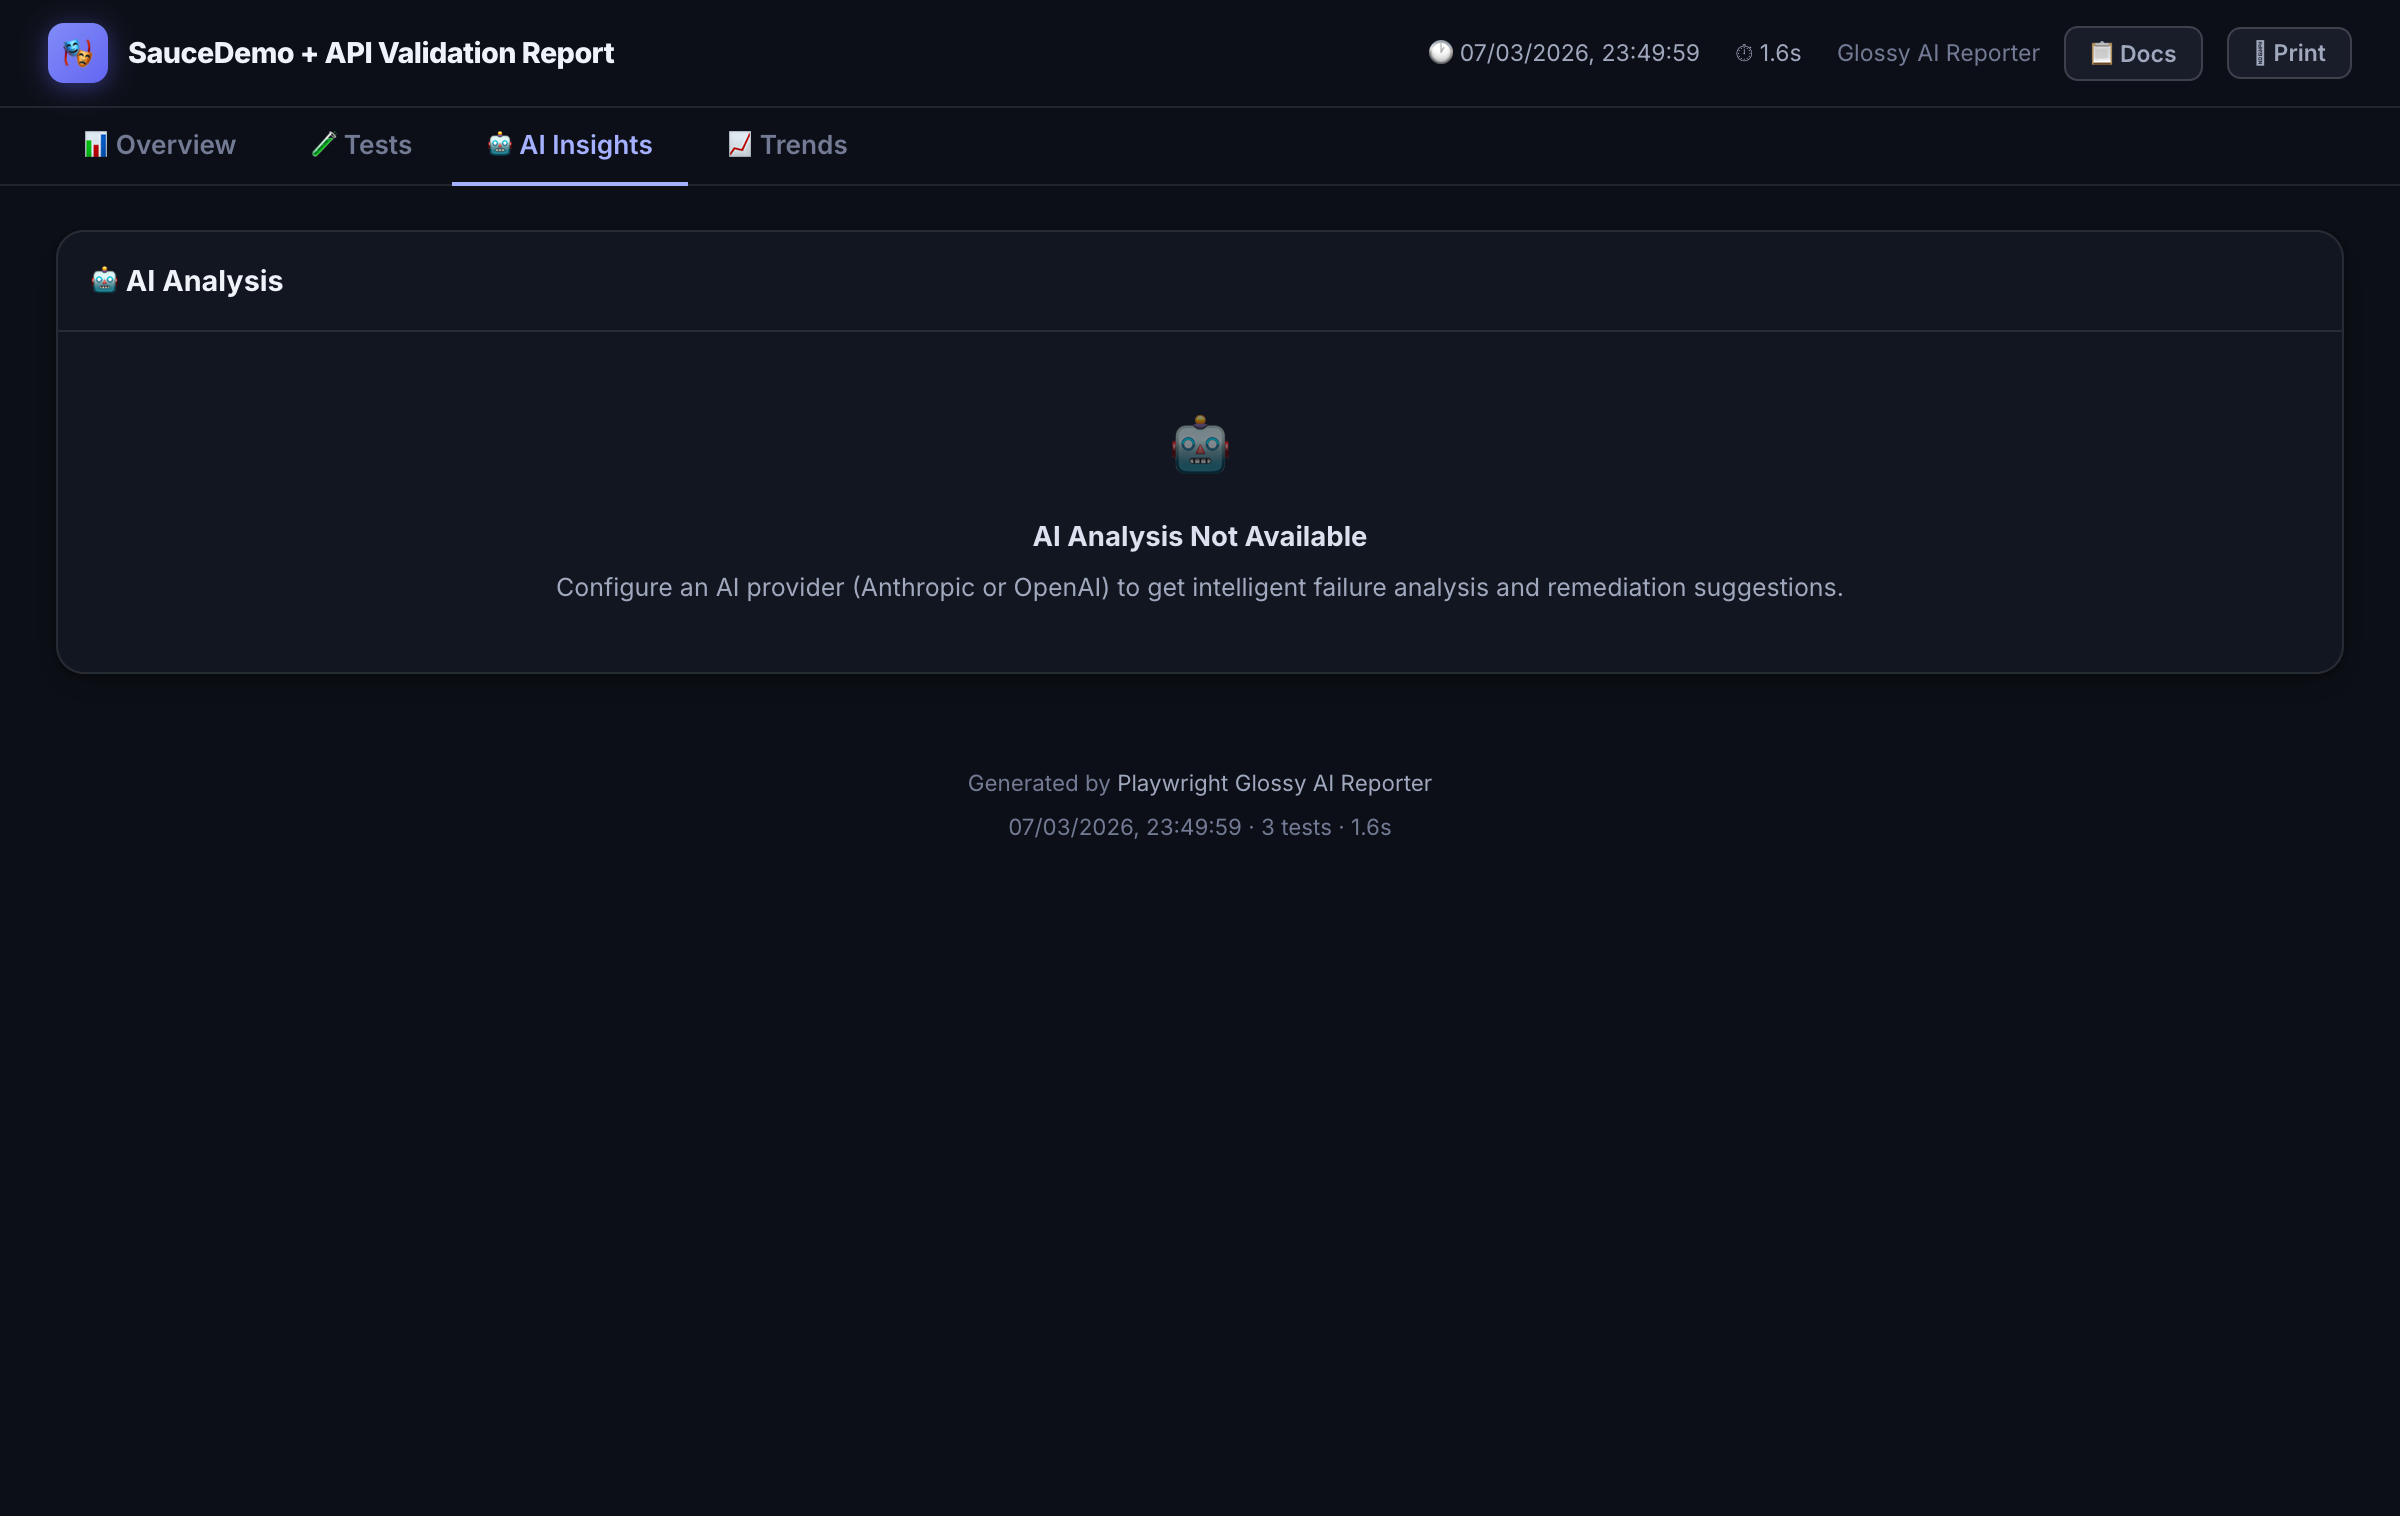
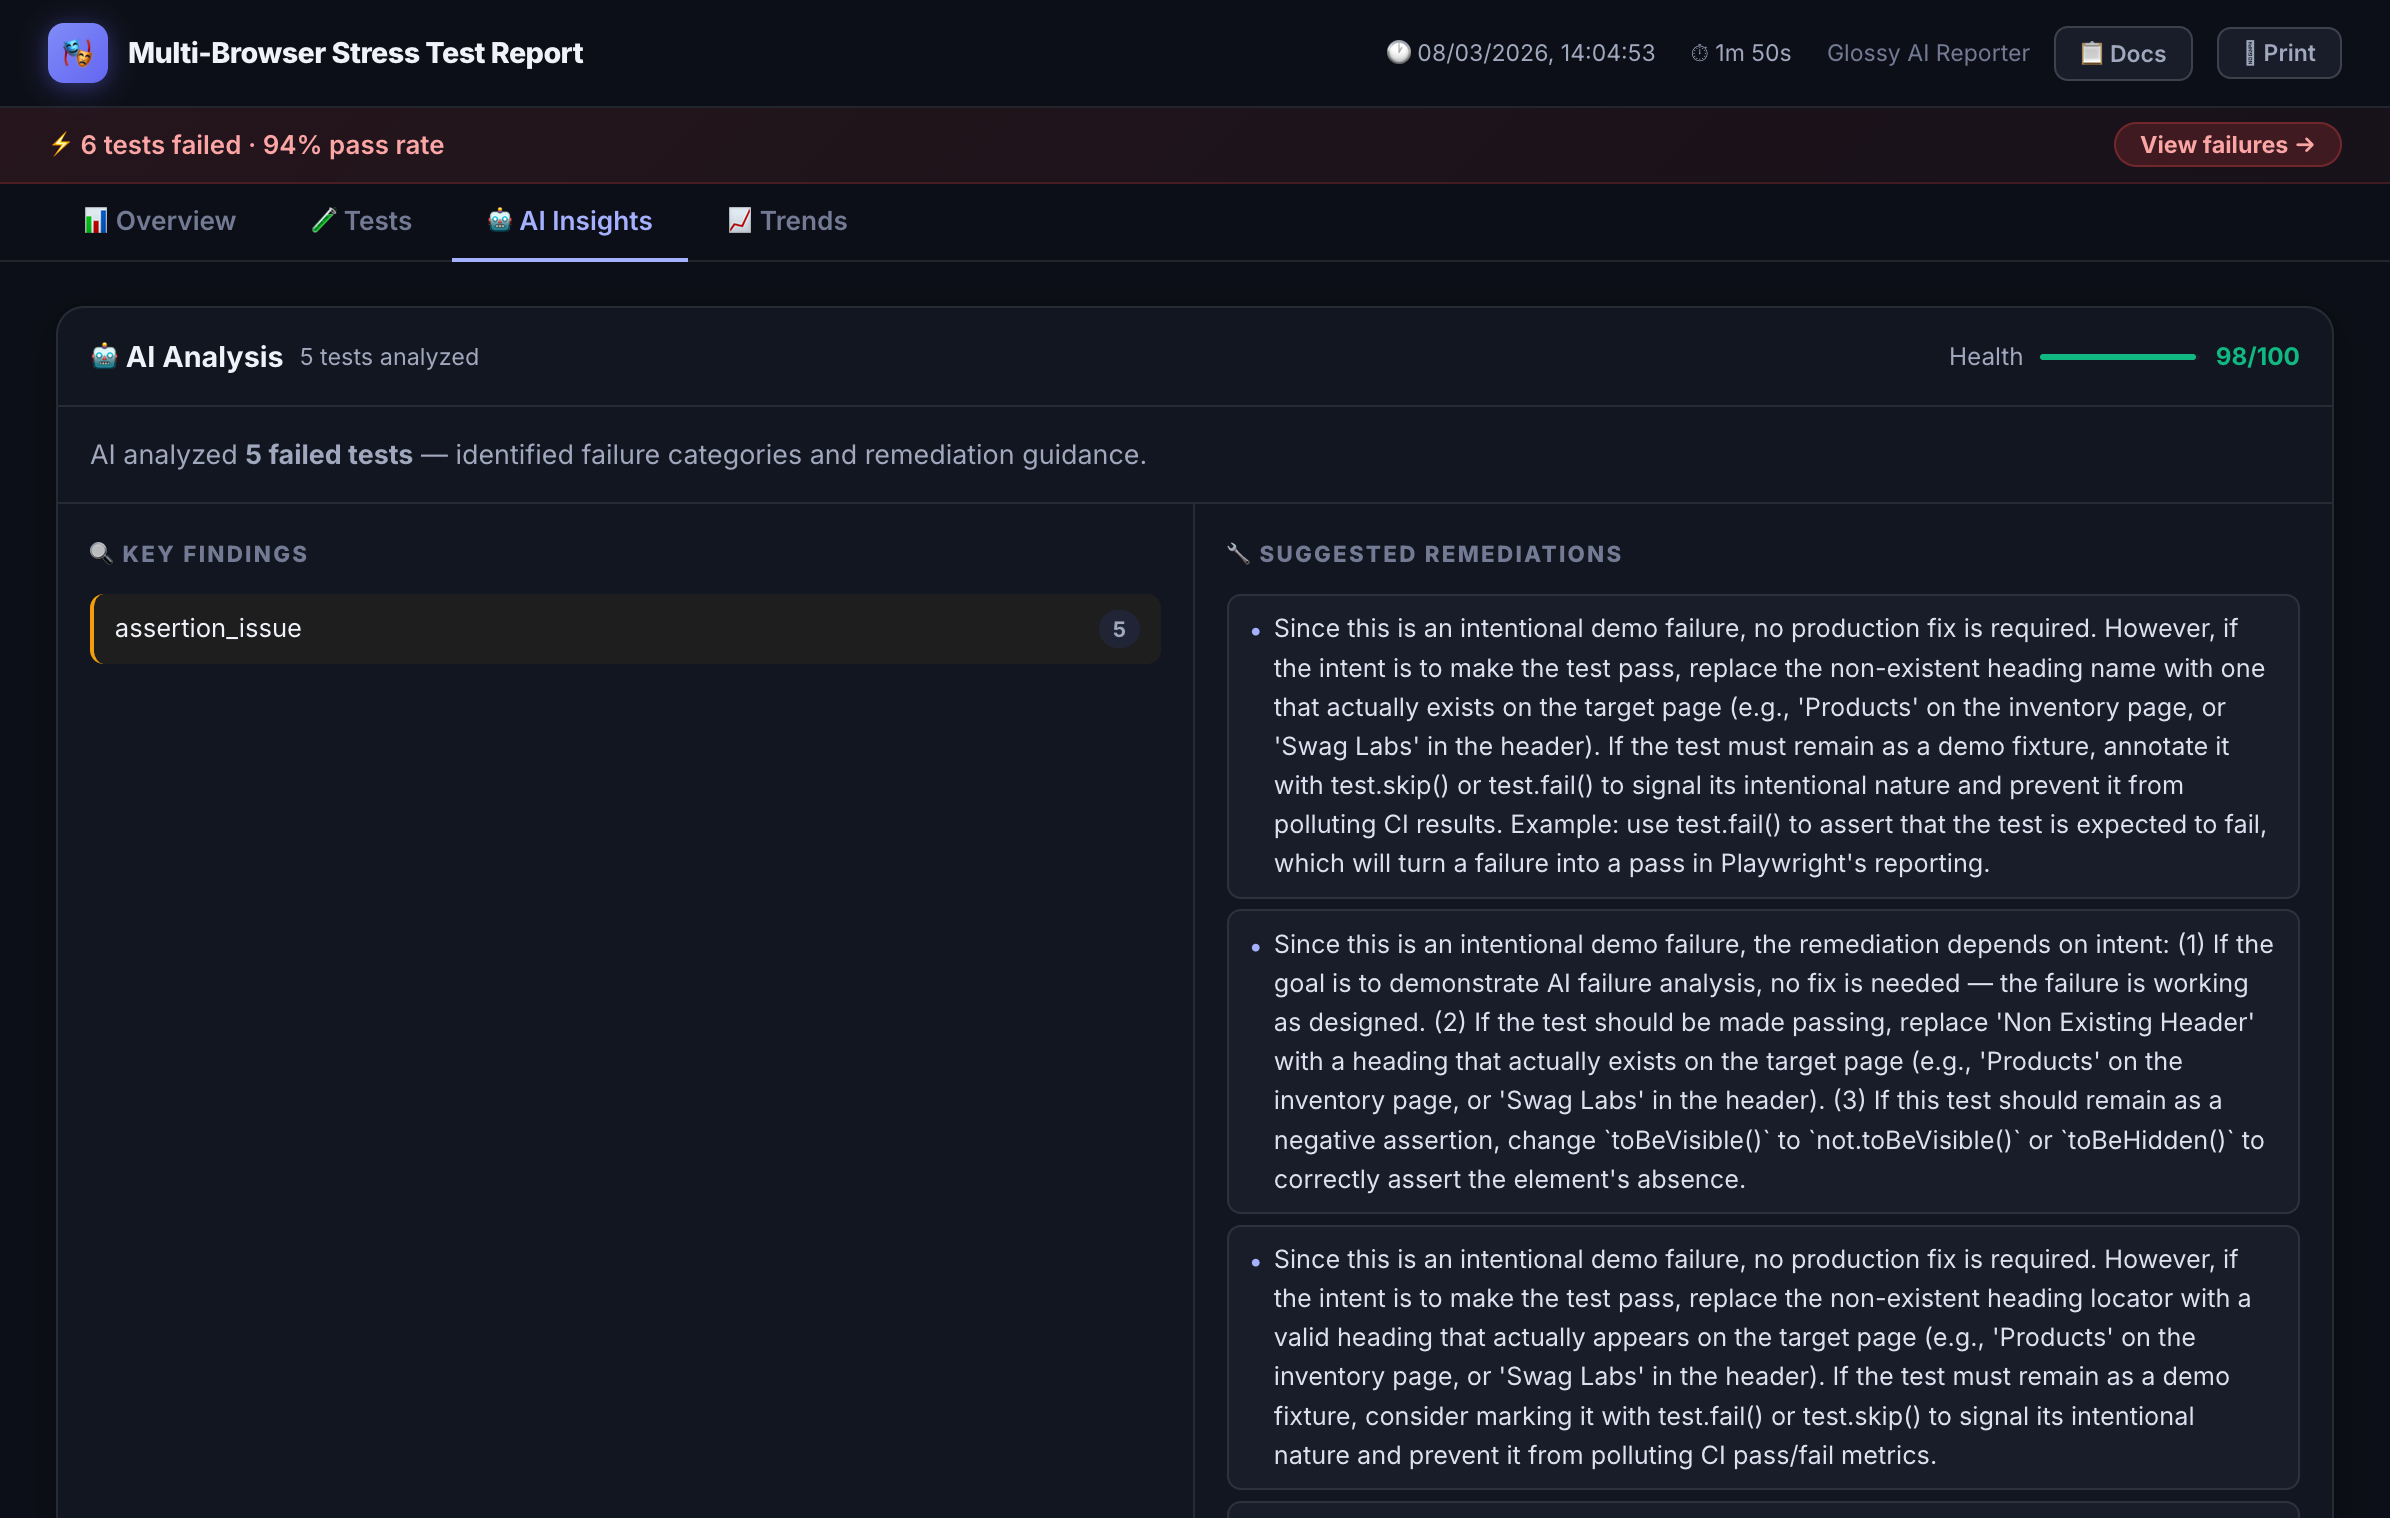
docs: update screenshots with real data and fix README references
- Replace empty AI insights screenshot with real analysis data (98% confidence, root cause, fix suggestions)
- Replace placeholder API viewer with actual request/response JSON viewer screenshot
- Add new failure-detail screenshot showing error + AI analysis inline
- Update tests-view screenshot showing browser badges (chromium/firefox/webkit)
- Fix screenshot section order and labels in README
- Fix remaining 'glossy' references: history file name, dashboard desc, SDK exports, type names

diff --git a/README.md b/README.md
@@ -9,28 +9,31 @@ A beautiful, production-ready Playwright reporter with BDD-style annotations, in
 ### Dashboard Overview
 ![Dashboard](docs/screenshots/dashboard.png)
 
-### BDD Feature & Scenario View
-![BDD View](docs/screenshots/api-viewer.png)
+### Tests & BDD View (with browser badges)
+![Tests View](docs/screenshots/tests-view.png)
 
 ### Inline API Request / Response Viewer
-![API Viewer](docs/screenshots/test-detail.png)
+![API Viewer](docs/screenshots/api-viewer.png)
+
+### Failure Detail with AI Analysis
+![Failure Detail](docs/screenshots/failure-detail.png)
+
+### AI Insights Tab
+![AI Insights](docs/screenshots/ai-insights.png)
 
 ### Run History & Trends
 ![Trends](docs/screenshots/trends.png)
-
-### AI Insights
-![AI Insights](docs/screenshots/ai-insights.png)
 
 ---
 
 ## Features
 
-- **Glossy HTML dashboard** — dark-themed interactive report with filter, sort, search, and failure drill-down
+- **Interactive HTML dashboard** — dark-themed report with filter, sort, search, and failure drill-down
 - **BDD annotations** — add Feature, Scenario, and Behaviour metadata directly in your tests
 - **Inline API viewer** — attach request/response JSON directly to test results with syntax highlighting
 - **AI failure analysis** — automatic root-cause analysis for failed tests (OpenAI, Anthropic, or custom)
 - **Healing payloads** — structured JSON + Markdown export of suggested locator fixes and patches
-- **History & trends** — pass-rate and duration charts across runs via `glossy-history.json`
+- **History & trends** — pass-rate and duration charts across runs via `spec-doc-history.json`
 - **Zero runtime dependencies** — single self-contained HTML file output
 
 ---
@@ -192,7 +195,7 @@ The report shows each request/response pair with method badge (colour-coded), UR
 ## Reporter configuration
 
 ```ts
-type GlossyReporterConfig = {
+type SpecDocReporterConfig = {
   /** Output directory. Default: "spec-doc-report" */
   outputDir?: string;
 
@@ -440,7 +443,7 @@ The `healing.md` export is human-readable and CI-comment-friendly.
 
 ## History & trends
 
-The reporter automatically maintains `glossy-history.json` and records each run's pass rate, duration, and per-test status. The dashboard's **Trends** tab shows pass-rate charts and per-test stability indicators across runs.
+The reporter automatically maintains `spec-doc-history.json` and records each run's pass rate, duration, and per-test status. The dashboard's **Trends** tab shows pass-rate charts and per-test stability indicators across runs.
 
 ---
 
@@ -450,7 +453,7 @@ Use the internals directly without running Playwright:
 
 ```ts
 import {
-  buildGlossyHtml,
+  buildSpecDocHtml,
   generateReport,
   analyzeFailures,
   createHealingPayloads,
@@ -458,7 +461,7 @@ import {
 } from "playwright-spec-doc-reporter";
 
 // Render an HTML report from a saved results.json
-const html = buildGlossyHtml(reportData, { outputDir: "." });
+const html = buildSpecDocHtml(reportData, { outputDir: "." });
 ```
 
 ---
@@ -467,7 +470,7 @@ const html = buildGlossyHtml(reportData, { outputDir: "." });
 
 ```ts
 import type {
-  GlossyReporterConfig,
+  SpecDocReporterConfig,
   NormalizedTestResult,
   ApiEntry,
   AIAnalysisResult,
